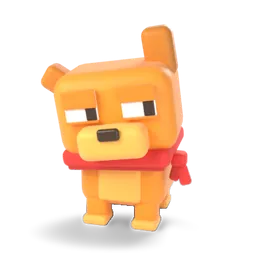
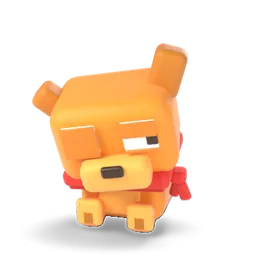
Share cards: Sal deadpan, not jolly
Founder on the paw-out win card: "this one dancing looks very AI slop ...
Sal must be funny, not jolly, based Gen Z funny". Sal is the only adult in
the room, so the stills are re-rendered as low-effort, unbothered poses
with deadpan / side-eye / suspicious lids (Kute Assets, Sal 3D/v5 app,
scripts/render_card_stills_v2.py, renders/card stills v2 (2026-11-02)):

- win: lounging, paws crossed, chin up, heavy-lidded side-eye ("too easy")
- bigwin: lounging, eyes shut, chin up (retired)
- loss: a flop, chin on the floor, ears flat, one eye open ("bed")
- flat: sitting, slow side-eye, one lid lower ("and?")
- predict: sitting, suspicious squint down at the odds
- send: standing with the briefcase and glasses, flat look ("here")

Same file names, so the mapping and its tests are unchanged; the docs
follow the new poses.

Changed region(s): [[0.125, 0.0938, 0.75, 0.9375], [0.4375, 0.3438, 0.4688, 0.375]]

diff --git a/lib/screens/share/cards/share_card_frame.dart b/lib/screens/share/cards/share_card_frame.dart
@@ -15,8 +15,8 @@
 //     at [kShareCardPixelRatio] (1080 × 1350), [kShareCardPadding] all
 //     round, the preview's clip at [kShareCardRadius].
 //   * SAL, whole, at the top right ([ShareCardFrame.pose], a still of the
-//     3D Sal, [kShareCardSalSize]): pleased on a win, unbothered on a
-//     loss, with his briefcase on a send, weighing a prediction. The caps
+//     3D Sal, [kShareCardSalSize]): lounging on a win, a flop on a loss,
+//     the briefcase on a send, squinting at a prediction (deadpan). The caps
 //     line and the identity leave him room ([kShareCardSalInset]); a big
 //     number right under them starts below his feet ([kShareCardSalBand]).
 //     On the bitcoin orange, his own colour, he stands on a flat disc of
@@ -202,35 +202,36 @@ class ShareCardPalette {
 }
 
 /// Sal's pose on a card (founder, 2 November 2026: "Sal should have more
-/// expression there", then "these Sal here are not good ... why is she so
-/// sad there"): one purpose-made still of the 3D Sal, whole, at the
-/// card's top right, its pose and face the card's meaning. Rendered for
-/// the cards from the v5 rig (Kute Assets, Sal 3D/v5 app,
-/// scripts/render_card_stills.py), `card_<pose>@2x/@3x.webp` in
-/// lib/assets/sal (the manifest's `card` group). He has no mouth: a
-/// pleased face is the lower lids raised (smiling eyes), never a sad
-/// slant of the upper lids.
+/// expression there", then "why is she so sad there", then on a paw-out
+/// win: "Sal must be funny, not jolly, based Gen Z funny"): one
+/// purpose-made still of the 3D Sal, whole, at the card's top right.
+/// Sal is the only adult in the room: low-effort, unbothered poses and
+/// deadpan, side-eye or suspicious lids; never a hop, a wave, a cheer or a
+/// smile, never a sad slant. Rendered from the v5 rig (Kute Assets, Sal
+/// 3D/v5 app, scripts/render_card_stills_v2.py), `card_<pose>@2x/@3x.webp`
+/// in lib/assets/sal (the manifest's `card` group).
 enum ShareCardPose {
-  /// "Told you so": sitting up proud, chin up, head cocked, a paw out,
-  /// smiling eyes. A win.
+  /// "Too easy": lounging on the floor, paws crossed, chin up, a
+  /// heavy-lidded side-eye at the number. A win.
   win,
 
-  /// Mid-hop, both paws up, eyes wide and smiling. A big win.
+  /// Retired: lounging, eyes shut, chin up, the calmest dog alive. A big
+  /// win.
   bigWin,
 
-  /// Unbothered: flat half lids straight at the viewer, one ear down. A
-  /// loss, owned with a straight face (never sad).
+  /// "I'm going to bed": a flop, chin on the floor, ears flat, one eye open
+  /// at the viewer. A loss, dry, never sad.
   loss,
 
-  /// A curious head tilt and a side-eye at the number. Flat.
+  /// Sitting, a slow side-eye with one lid lower: "and?". Flat.
   flat,
 
-  /// The accountant: glasses on, the briefcase with the coin, mid-stride,
-  /// pleased. A send, a gift, a claim.
+  /// "Here, take it": standing with the briefcase and the coin, glasses
+  /// on, a flat look. A send, a gift, a claim.
   send,
 
-  /// Weighing the odds: sitting, a paw at the chest, eyes up toward the
-  /// card. A prediction.
+  /// Sitting, a suspicious squint down at the odds, one lid lower. A
+  /// prediction.
   predict;
 
   String get clip => 'card_${name.toLowerCase()}';

diff --git a/lib/screens/share/cards/share_cards.dart b/lib/screens/share/cards/share_cards.dart
@@ -20,8 +20,8 @@
 //   * INVESTMENT (navy): THE ACTUAL STOCK: its real logo (HlCoinIcon, 36),
 //     name and ticker, the price huge, "+3.4% today" in the change's
 //     colour, the last 30 days' closes as the line filling the space,
-//     "Long · $25" when sent as a pick, the edgy line; Sal pleased on a
-//     day up (hopping at +10%), unbothered on a day down.
+//     "Long · $25" when sent as a pick, the edgy line; Sal lounging on a
+//     day up (eyes shut at +10%), flopped on a day down.
 //
 // Sal stands at the top right ([shareCardPose]); the footer is the
 // wordmark and the sharer's code. The headline sentence leads the share
@@ -62,9 +62,9 @@ ShareCardPalette shareCardPalette(ShareCardData data) => switch (data) {
 /// A stock up this much today (a fraction) gets Sal's big win.
 const double kShareCardBigChange = 0.10;
 
-/// Sal's pose on the card: the briefcase on a send, weighing the odds on
-/// a prediction; on a stock, today's change: pleased up, hopping at
-/// [kShareCardBigChange] or more, unbothered down, curious flat.
+/// Sal's pose on the card: the briefcase on a send, squinting at the odds
+/// on a prediction; on a stock, today's change: lounging up, eyes shut at
+/// [kShareCardBigChange] or more, a flop down, a side-eye flat.
 ShareCardPose shareCardPose(ShareCardData data) => switch (data) {
       MoneyCardData() => ShareCardPose.send,
       PredictionCardData() => ShareCardPose.predict,

diff --git a/lib/screens/share/brag/brag_card.dart b/lib/screens/share/brag/brag_card.dart
@@ -25,8 +25,8 @@
 //     held side's chance now, the dot at the price paid, the P&L huge under
 //     its hub and "Since you bought · +42.1%"; the price paid and now as
 //     the plain fact line ("41¢ → 62¢").
-//   * Sal at the top right in the tone's pose ([bragPose]: pleased on a
-//     win, hopping on a big one, unbothered on a loss), the EDGY LINE
+//   * Sal at the top right in the tone's pose ([bragPose]: lounging on a
+//     win, eyes shut on a big one, a flop on a loss), the EDGY LINE
 //     (brag_lines.dart) over the footer: the wordmark and the sharer's
 //     code.
 //
@@ -62,8 +62,8 @@ ShareCardPalette bragPalette(BragData data) => switch (data.tone) {
       BragTone.flat => ShareCardPalette.flat,
     };
 
-/// Sal's pose by the tone: hopping on a big win, pleased on any other
-/// win (a small one too), unbothered on a loss, curious when flat.
+/// Sal's pose by the tone: retired on a big win, lounging on any other
+/// win (a small one too), a flop on a loss, a side-eye when flat.
 ShareCardPose bragPose(BragData data) => switch (data.tone) {
       BragTone.bigWin => ShareCardPose.bigWin,
       BragTone.win || BragTone.smallWin => ShareCardPose.win,

diff --git a/test/screens/share/brag/brag_card_test.dart b/test/screens/share/brag/brag_card_test.dart
@@ -97,8 +97,8 @@ void main() {
     });
 
     test(
-        "Sal's pose by the tone: every win pleased (a small one too), a "
-        'big one hopping, a loss unbothered, flat curious', () {
+        "Sal's pose by the tone: every win lounging (a small one too), a "
+        'big one retired, a loss a flop, flat a side-eye', () {
       BragPosition at(double usd, {double? percent}) => BragPosition(
             title: 'ANTH',
             link: 'https://backend.kutewallet.com/m/investing/ANTH',
@@ -109,7 +109,7 @@ void main() {
       expect(bragPose(at(36.9, percent: 42.1)), ShareCardPose.bigWin);
       expect(bragPose(at(5, percent: 9.9)), ShareCardPose.win);
       // The portfolio at +$7.77 with no percent (a small win) and a
-      // short in profit by under 2%: pleased, never the loss face.
+      // short in profit by under 2%: the win, never the loss flop.
       expect(bragPose(at(7.77)), ShareCardPose.win);
       expect(bragPose(at(3.1, percent: 1.2)), ShareCardPose.win);
       expect(bragPose(at(-12.4, percent: -6.2)), ShareCardPose.loss);
